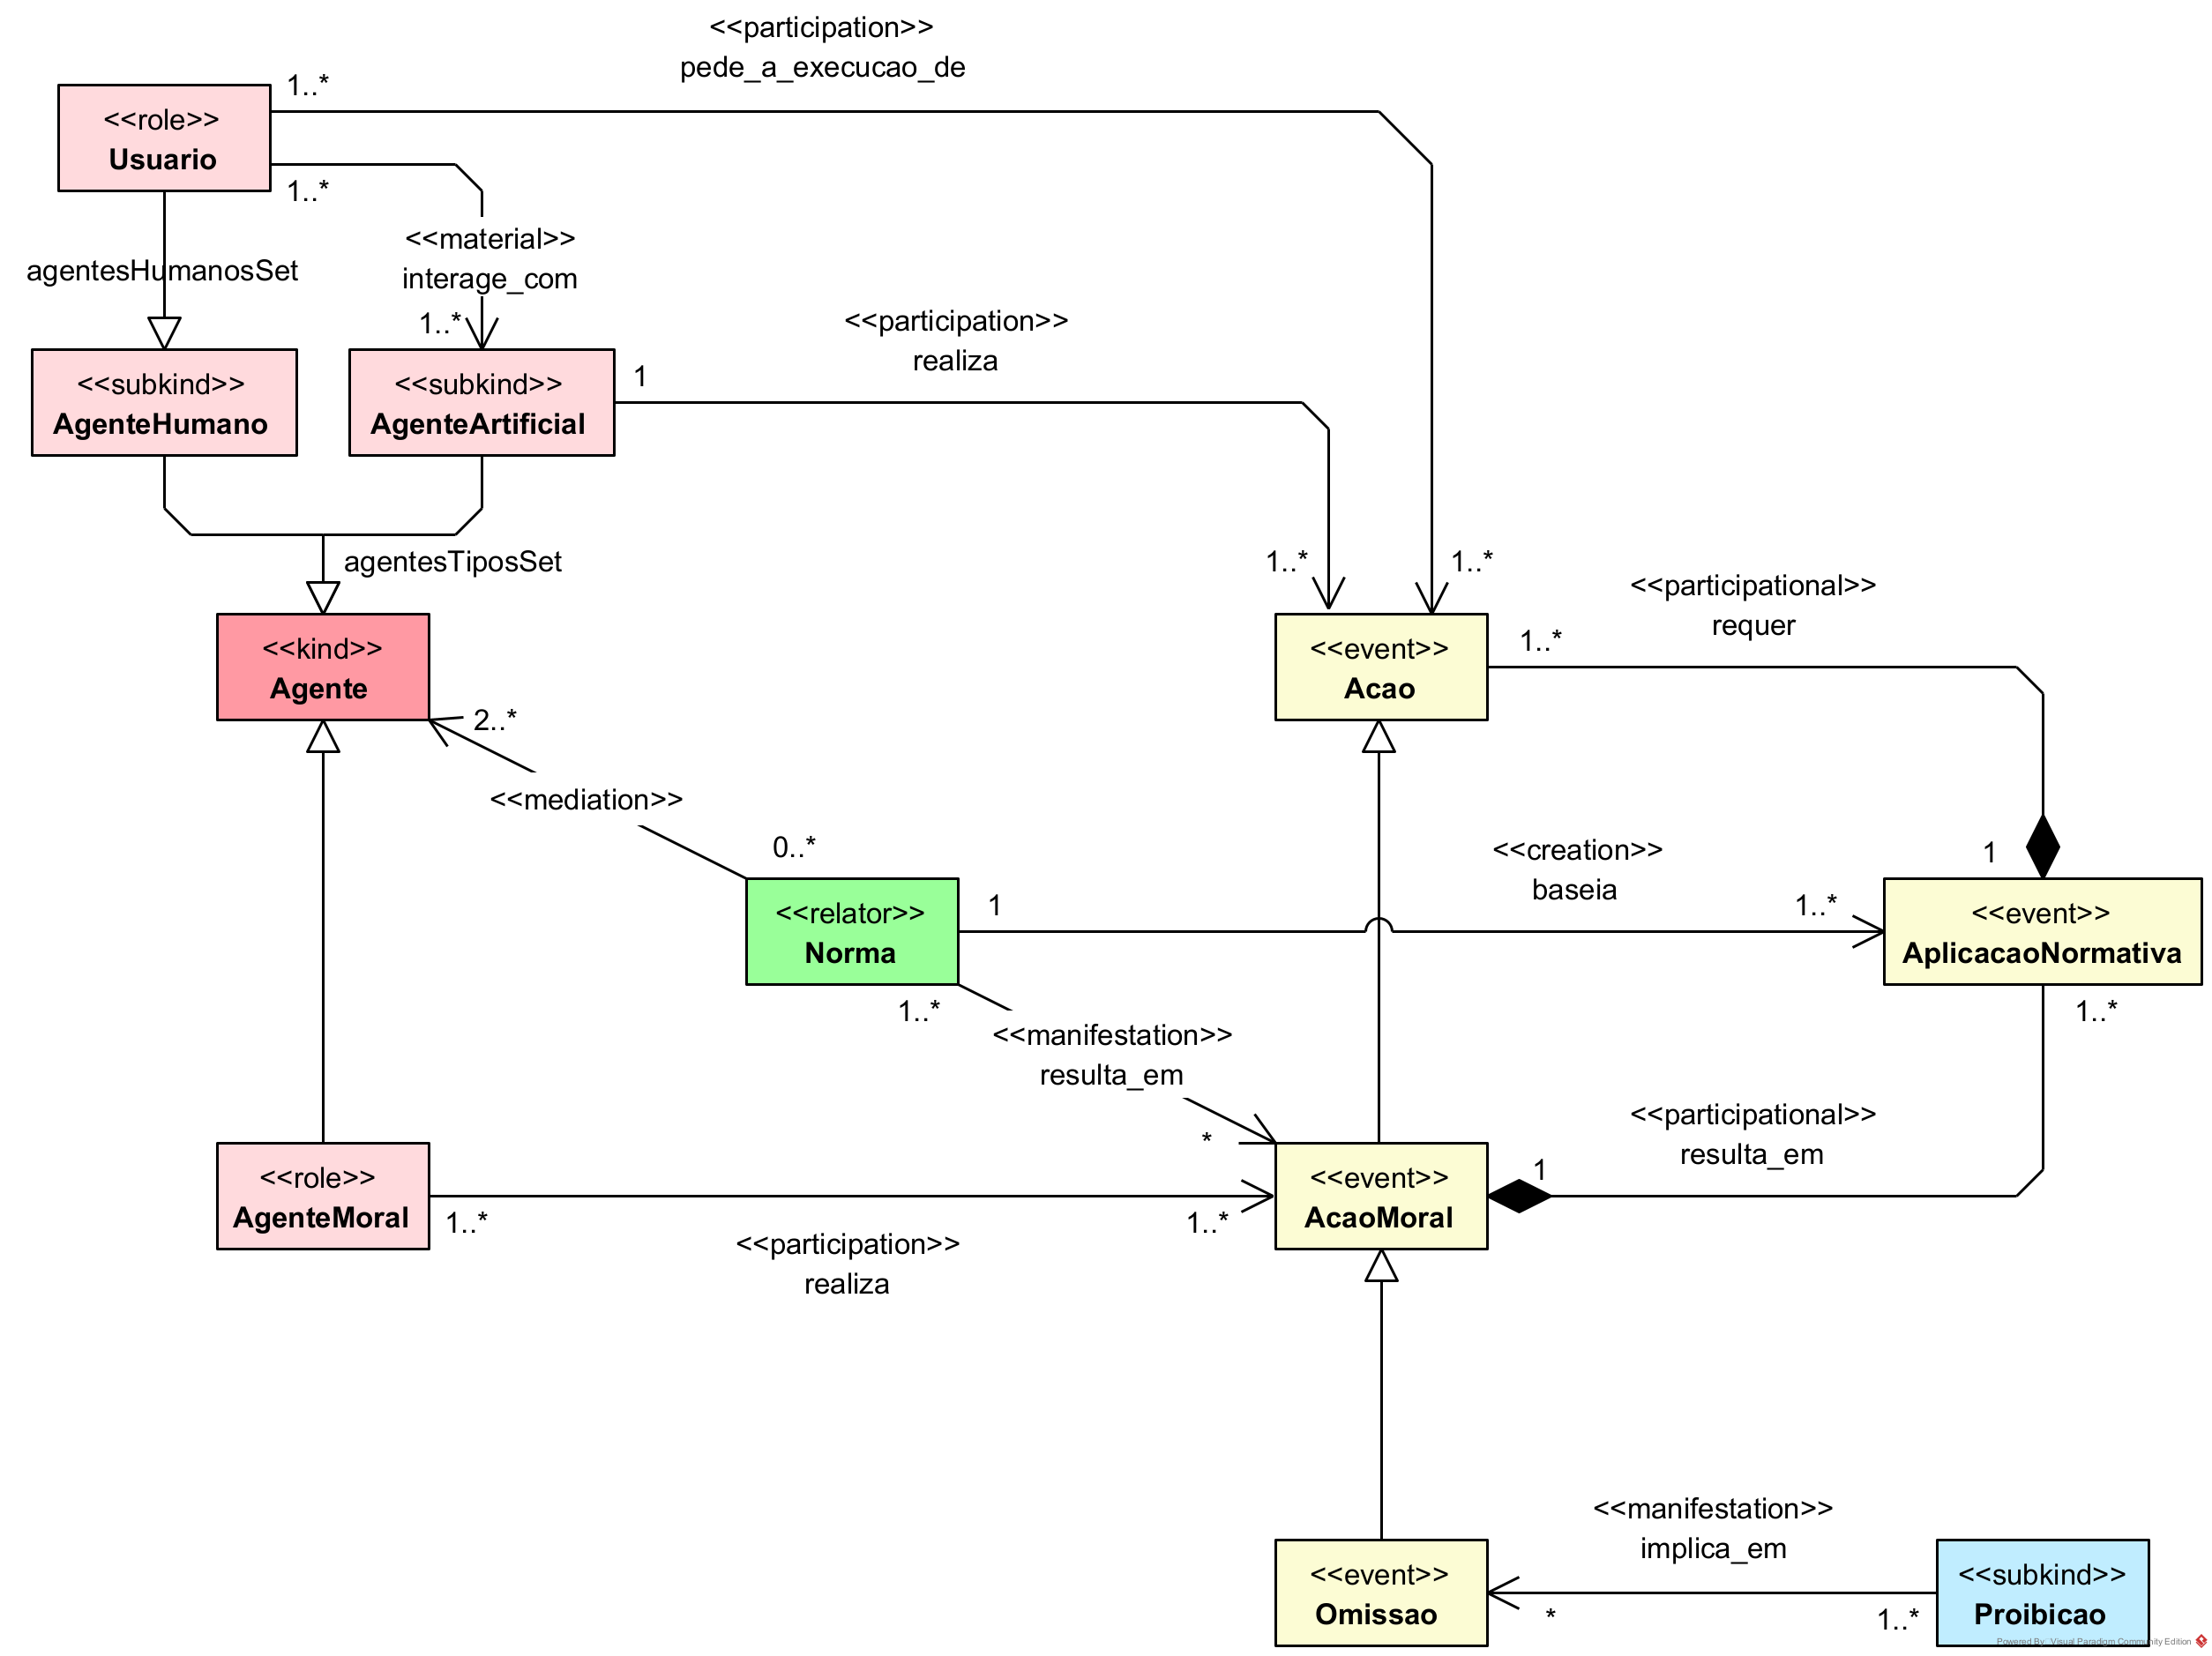
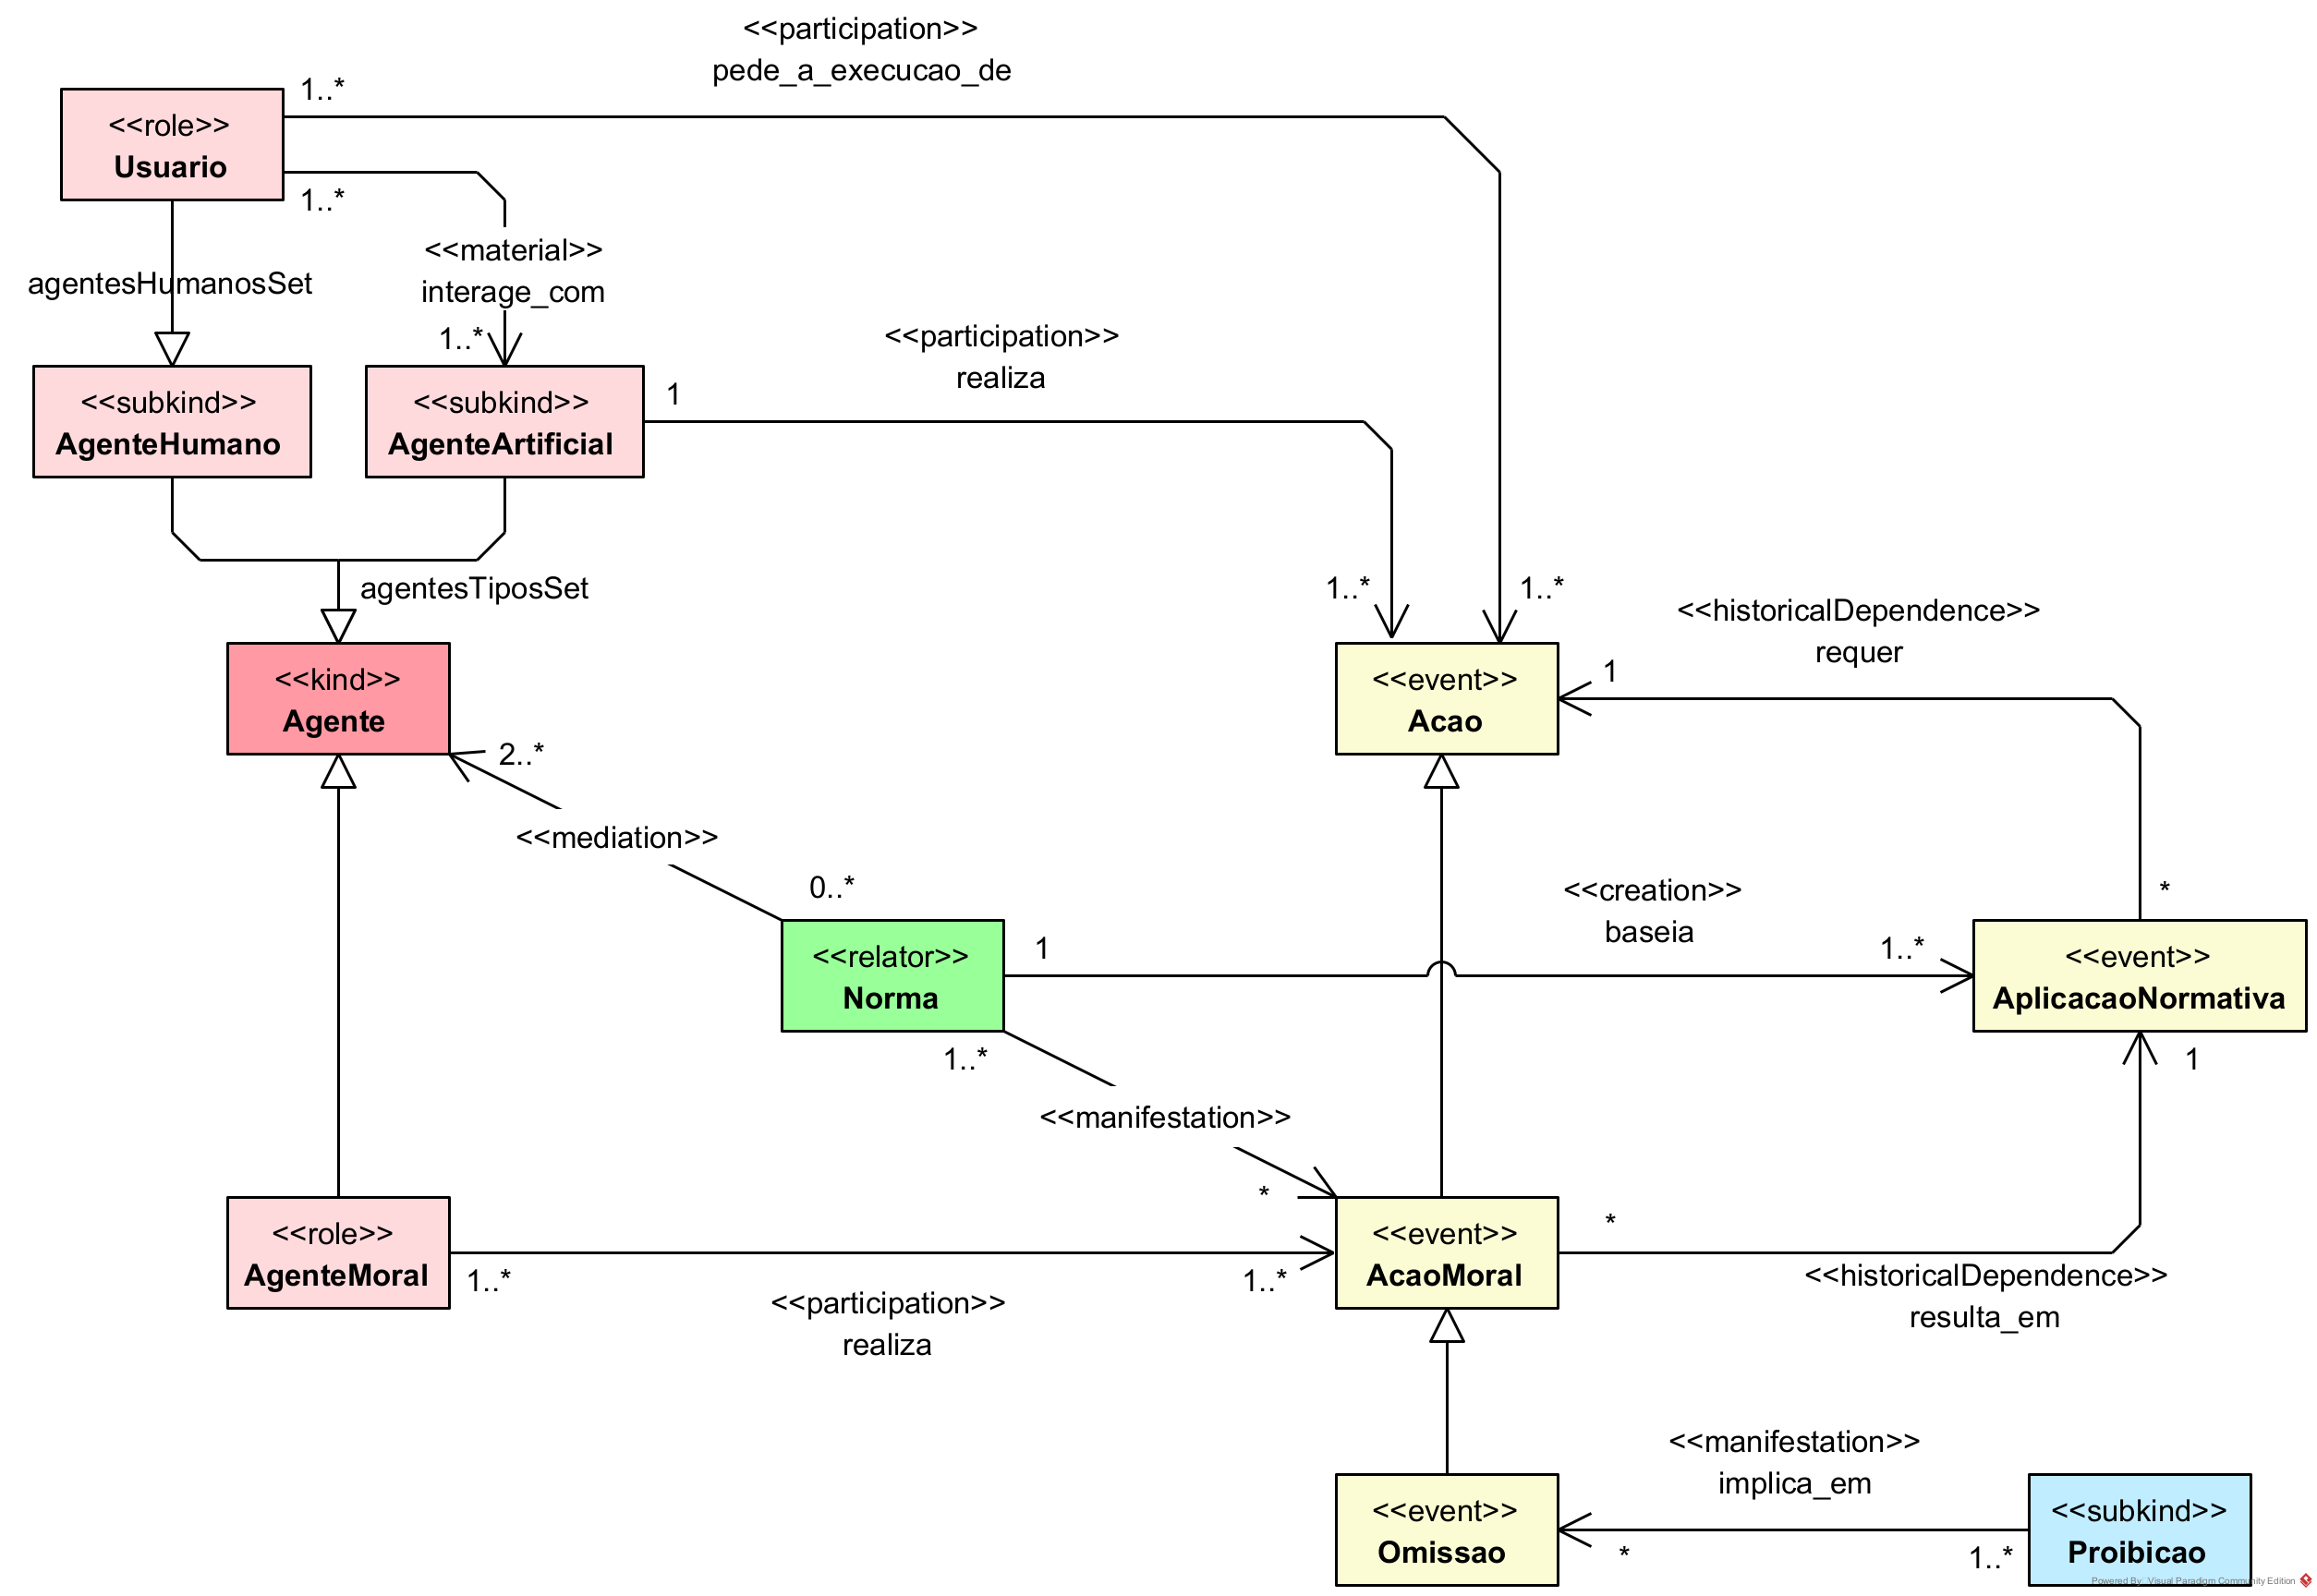
Update

diff --git a/OWLReady2/main.py b/OWLReady2/main.py
@@ -153,16 +153,15 @@ with onto:
 
 
 
-    valor_nao_maleficencia = ClassValor("Nao_Maleficencia1")
-    valor_justica = ClassValor("Justica1")
-    valor_beneficencia = ClassValor("Beneficencia1")
-
+    valor_nao_maleficencia = ClassValor("Nao_Maleficencia")
     hasattr(valor_nao_maleficencia, "historicallyDependsOn")
     valor_nao_maleficencia.historicallyDependsOn.append(especialista_filosofo)
 
+    valor_justica = ClassValor("Justica")
     hasattr(valor_justica, "historicallyDependsOn")
     valor_justica.historicallyDependsOn.append(especialista_filosofo)
 
+    valor_beneficencia = ClassValor("Beneficencia")
     hasattr(valor_beneficencia, "historicallyDependsOn")
     valor_beneficencia.historicallyDependsOn.append(especialista_filosofo)
 
@@ -189,14 +188,49 @@ with onto:
 
 
 
+    decidir_imparcialmente = ClassAcaoMoral("Decidir_Imparcialmente")
+
+    proibir_acesso_a_dados_pessoais = ClassAcaoMoral("Proibir_Acesso_A_Dados_Pessoais")
+
+
+
+    hasattr(aplicacao_normativa_1, "contributedToTrigger")
+    aplicacao_normativa_1.contributedToTrigger.append(decidir_imparcialmente)
+
+    hasattr(aplicacao_normativa_2, "contributedToTrigger")
+    aplicacao_normativa_2.contributedToTrigger.append(proibir_acesso_a_dados_pessoais)
+
+
+
+    hasattr(agente_artificial_1, "participatedIn")
+    agente_artificial_1.participatedIn.append(decidir_imparcialmente)
+
+    hasattr(usuario_1, "participatedIn")
+    usuario_1.participatedIn.append(decidir_imparcialmente)
+
+
+
+    hasattr(agente_artificial_2, "participatedIn")
+    agente_artificial_2.participatedIn.append(proibir_acesso_a_dados_pessoais)
+
+    hasattr(usuario_2, "participatedIn")
+    usuario_2.participatedIn.append(proibir_acesso_a_dados_pessoais)
+
+
+
     norma_imparcialidade = ClassNorma("Seja_Imparcial_Em_Suas_Decisoes")
     hasattr(norma_imparcialidade, "mediates")
     norma_imparcialidade.mediates.append(usuario_1)
     norma_imparcialidade.mediates.append(agente_artificial_1)
+
     hasattr(norma_imparcialidade, "historicallyDependsOn")
     norma_imparcialidade.historicallyDependsOn.append(especialista_filosofo)
+
     hasattr(norma_imparcialidade, "manifestedIn")
-    norma_imparcialidade.manifestedIn.append(ClassAcaoMoral("Decidir_Imparcialmente"))
+    norma_imparcialidade.manifestedIn.append(decidir_imparcialmente)
+
+    hasattr(norma_imparcialidade, "wasCreatedIn")
+    norma_imparcialidade.wasCreatedIn.append(aplicacao_normativa_1)
 
 
 
@@ -209,9 +243,10 @@ with onto:
     norma_privacidade.historicallyDependsOn.append(especialista_filosofo)
 
     hasattr(norma_privacidade, "manifestedIn")
-    norma_privacidade.manifestedIn.append(ClassAcaoMoral("Proibir_Acesso_A_Dados_Pessoais"))
+    norma_privacidade.manifestedIn.append(proibir_acesso_a_dados_pessoais)
 
     hasattr(norma_privacidade, "wasCreatedIn")
+    norma_privacidade.wasCreatedIn.append(aplicacao_normativa_2)
 
 
 
@@ -231,60 +266,6 @@ with onto:
 
 
 
-    #
-    # agente_artificial = None
-    # agente_humano = None
-    # agente_organizacional = None
-    #
-    # if ClassAgenteArtificial:
-    #     agente_artificial = ClassAgenteArtificial("SRI_Robo_Medico")
-    #     agente_artificial = ClassAgenteArtificial("ChatBot")
-    #
-    #
-    #
-    # if ClassAgenteHumano:
-    #     agente_humano = ClassAgenteHumano("Dr_Ana_Silva_Auditora")
-    #
-    # if ClassEcossistemaDeIA:
-    #     ClassEcossistemaDeIA("Ambiente_Algoritmico_Financeiro")
-    #
-    # if ClassNorma:
-    #     ClassNorma("Diretriz_de_Transparencia_Algoritmica")
-    #
-    # if ClassValor:
-    #     ClassValor("Principio_da_Equidade_Social")
-    #
-    # if ClassRestricaoDeontica:
-    #     ClassRestricaoDeontica("Proibicao_de_Decisao_Autonoma_Letal")
-    #
-    # if ClassAcao:
-    #     ClassAcao("Decisao_de_Aprovacao_de_Credito")
-    #
-    # if ClassResponsabilizacao:
-    #     ClassResponsabilizacao("Processo_Auditoria_Algoritmica_001")
-    #
-    # if ClassObrigacao:
-    #     ClassObrigacao("Obrigacao_de_Explicabilidade")
-    #
-    # if ClassAplicacaoNormativa:
-    #     ClassAplicacaoNormativa("Validacao_de_Vies_Positiva")
-    #
-    # if ClassQuebraNormativa:
-    #     ClassQuebraNormativa("Vazamento_de_Dados_Nao_Autorizado")
-    #
-    # organizacao_reguladora = None
-    #
-    # if ClassOrganizacaoReguladora:
-    #     organizacao_reguladora = ClassOrganizacaoReguladora("Comite_Europeu_de_Etica")
-    #
-    # if (
-    #         organizacao_reguladora
-    #         and agente_artificial
-    #         and hasattr(organizacao_reguladora, "responsabiliza")
-    # ):
-    #     organizacao_reguladora.responsabiliza.append(agente_artificial)
-
-
 print(" Povoamento concluído com sucesso!")
 
 # TRADUÇÃO DAS QUESTÕES DE COMPETÊNCIA
@@ -299,7 +280,7 @@ consultas_sparql = {
             <{iri_segura(ClassAgenteOrganizacional)}>))
         }}
     """,
-    "QC2. Como normas classificam uma ação como uma ação moral?\n QC3. É a omissão um tipo de ação moral?": f"""
+    "QC2. Como normas classificam uma ação como uma ação moral? & QC3. É a omissão um tipo de ação moral?": f"""
         SELECT ?acao_ou_omissao ?tipo WHERE {{
             ?acao_ou_omissao rdf:type ?tipo .
             FILTER (?tipo IN (
@@ -309,17 +290,17 @@ consultas_sparql = {
     """,
 
     # --- GRUPO 2: Ecossistema de IA e Responsabilidade ---
-    "QC4 (Ecossistema de IA)": f"""
+    "QC4. O que é um ecossistema de IA?": f"""
         SELECT ?ecossistema WHERE {{
             ?ecossistema rdf:type <{iri_segura(ClassEcossistemaDeIA)}> .
         }}
     """,
-    "QC5 (Responsabilidade no Ecossistema)": f"""
+    "QC5. O que é a responsabilidade em um ecossistema de IA?": f"""
         SELECT ?responsabilidade WHERE {{
             ?responsabilidade rdf:type <{iri_segura(ClassResponsabilizacao)}> .
         }}
     """,
-    "QC6 e QC7 (Atribuição de Responsabilidade)": f"""
+    "QC6. Como responsabilidades são atribuídas em um ecossistema de IA? & QC7. Quem atribui responsabilidades em um ecossistema de IA?": f"""
         SELECT ?quem_atribui ?agente_responsabilizado WHERE {{
             # Busca especificamente quem aplica a propriedade 'responsabiliza'
             ?quem_atribui <{iri_segura(PropResponsabiliza)}> ?agente_responsabilizado .
@@ -327,12 +308,12 @@ consultas_sparql = {
     """,
 
     # --- GRUPO 3: Normas, Valores e Deôntica ---
-    "QC8 (Normas Éticas Gerais)": f"""
+    "QC8. O que é uma norma ética no contexto da ontologia?": f"""
         SELECT ?norma WHERE {{
             ?norma rdf:type <{iri_segura(ClassNorma)}> .
         }}
     """,
-    "QC9 (Componentes Lógicos de Normas)": f"""
+    "QC9. Quais são os componentes lógicos necessários para definir uma norma ética?": f"""
         SELECT ?componente ?tipo WHERE {{
             ?componente rdf:type ?tipo .
             FILTER (?tipo IN (
@@ -341,7 +322,7 @@ consultas_sparql = {
             <{iri_segura(ClassProibicao)}>))
         }}
     """,
-    "QC10 e QC13 (Aplicação e Quebra de Normas aplicadas à Ações)": f"""
+    "QC10. Qual norma ética se aplica a uma determinada ação? & QC13. Como um valor se relaciona com uma norma ética?": f"""
         SELECT ?evento_normativo ?tipo WHERE {{
             ?evento_normativo rdf:type ?tipo .
             FILTER (?tipo IN (
@@ -349,13 +330,13 @@ consultas_sparql = {
             <{iri_segura(ClassQuebraNormativa)}>))
         }}
     """,
-    "QC11 (Valores Éticos e Subclasses)": f"""
+    "QC11. Quais são os valores éticos?": f"""
         SELECT ?valor ?tipo_valor WHERE {{
             ?valor rdf:type ?tipo_valor .
             ?tipo_valor rdf:subClassOf* <{iri_segura(ClassValor)}> .
         }}
     """,
-    "QC12 (Quem define valores - Especialistas e Órgãos Reguladores)": f"""
+    "QC12. Quem define os valores éticos?": f"""
         SELECT ?definidor ?tipo WHERE {{
             ?definidor rdf:type ?tipo .
             FILTER (?tipo IN (
@@ -363,7 +344,7 @@ consultas_sparql = {
             <{iri_segura(ClassEspecialista)}>))
         }}
     """,
-    "QC14 (Restrições Deônticas Genéricas)": f"""
+    "QC14. Uma determinada ação é obrigatória, permitida ou proibida para um determinado agente?": f"""
         SELECT ?restricao WHERE {{
             ?restricao rdf:type <{iri_segura(ClassRestricaoDeontica)}> .
         }}
@@ -458,37 +439,37 @@ def executar_consultas_owlready():
     )
 
 
-# print("\n" + "=" * 60)
-# print(" CONSULTAS SPARQL - ASSERTED MODEL")
-# print("=" * 60)
-#
-# executar_bloco_testes("ASSERTED MODEL")
-#
+print("\n" + "=" * 60)
+print(" CONSULTAS SPARQL - ASSERTED MODEL")
+print("=" * 60)
+
+executar_bloco_testes("ASSERTED MODEL")
+
 executar_consultas_owlready()
-#
-# asserted_agentes_morais = len(
-#     listar_instancias(ClassAgenteMoral)
-# )
-#
-# try:
-#     sync_reasoner_hermit()
-# except Exception as e:
-#     print(f"Erro ao executar HermiT: {e}")
-#
-#
-# print("\n" + "=" * 60)
-# print(" CONSULTAS SPARQL - INFERRED MODEL")
-# print("=" * 60)
-#
-# executar_bloco_testes("INFERRED MODEL")
-#
-# executar_consultas_owlready()
-#
-# inferred_agentes_morais = len(
-#     listar_instancias(ClassAgenteMoral)
-# )
-#
-# print(
-#     f"\nAgentes Morais inferidos: "
-#     f"{inferred_agentes_morais - asserted_agentes_morais}"
-# )
+
+asserted_agentes_morais = len(
+    listar_instancias(ClassAgenteMoral)
+)
+
+with onto:
+    try:
+        sync_reasoner_hermit()
+    except Exception as e:
+        print(f"Erro ao executar HermiT: {e}")
+
+print("\n" + "=" * 60)
+print(" CONSULTAS SPARQL - INFERRED MODEL")
+print("=" * 60)
+
+executar_bloco_testes("INFERRED MODEL")
+
+executar_consultas_owlready()
+
+inferred_agentes_morais = len(
+    listar_instancias(ClassAgenteMoral)
+)
+
+print(
+    f"\nAgentes Morais inferidos: "
+    f"{inferred_agentes_morais - asserted_agentes_morais}"
+)